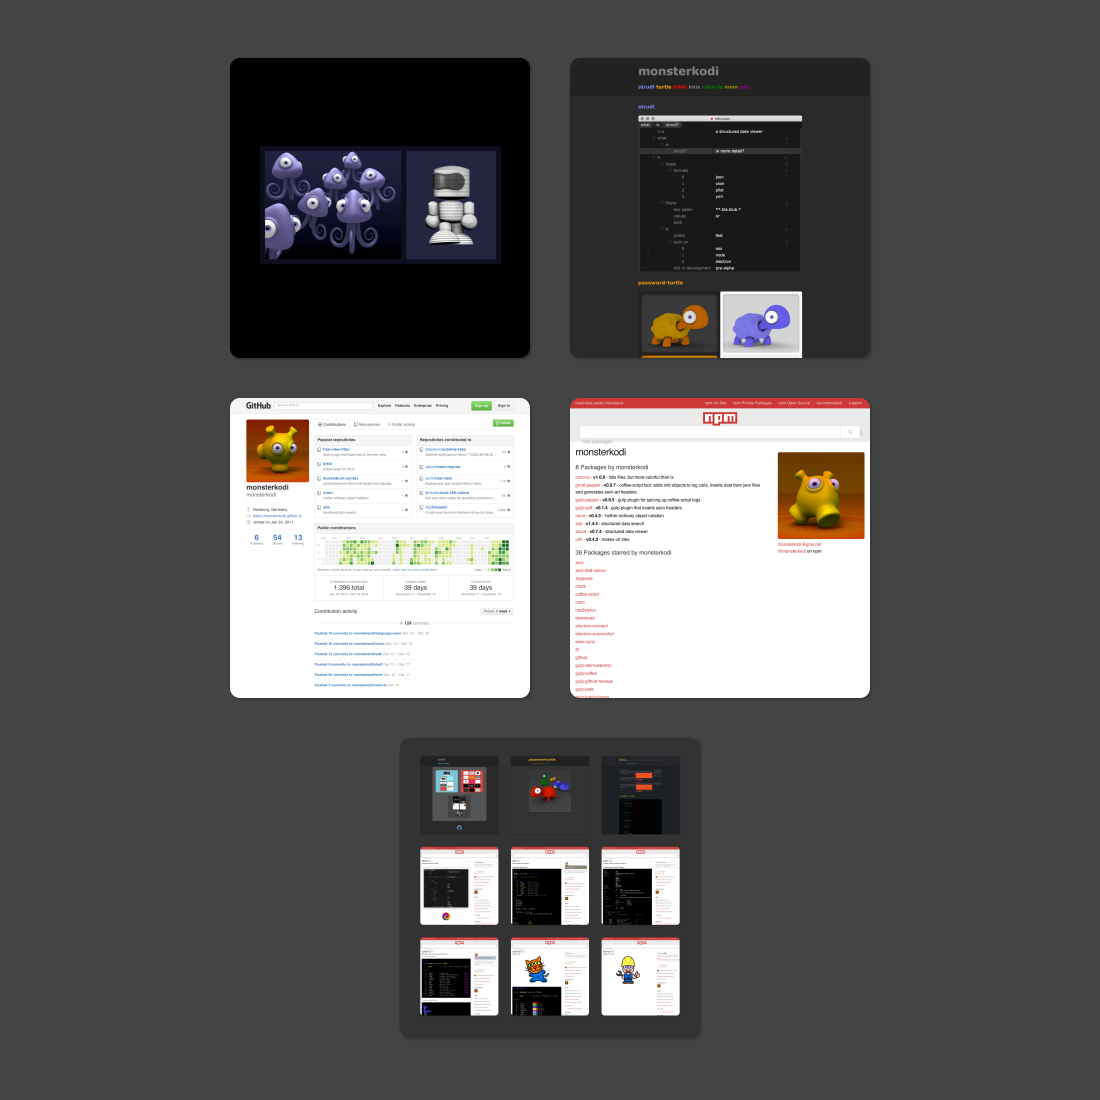
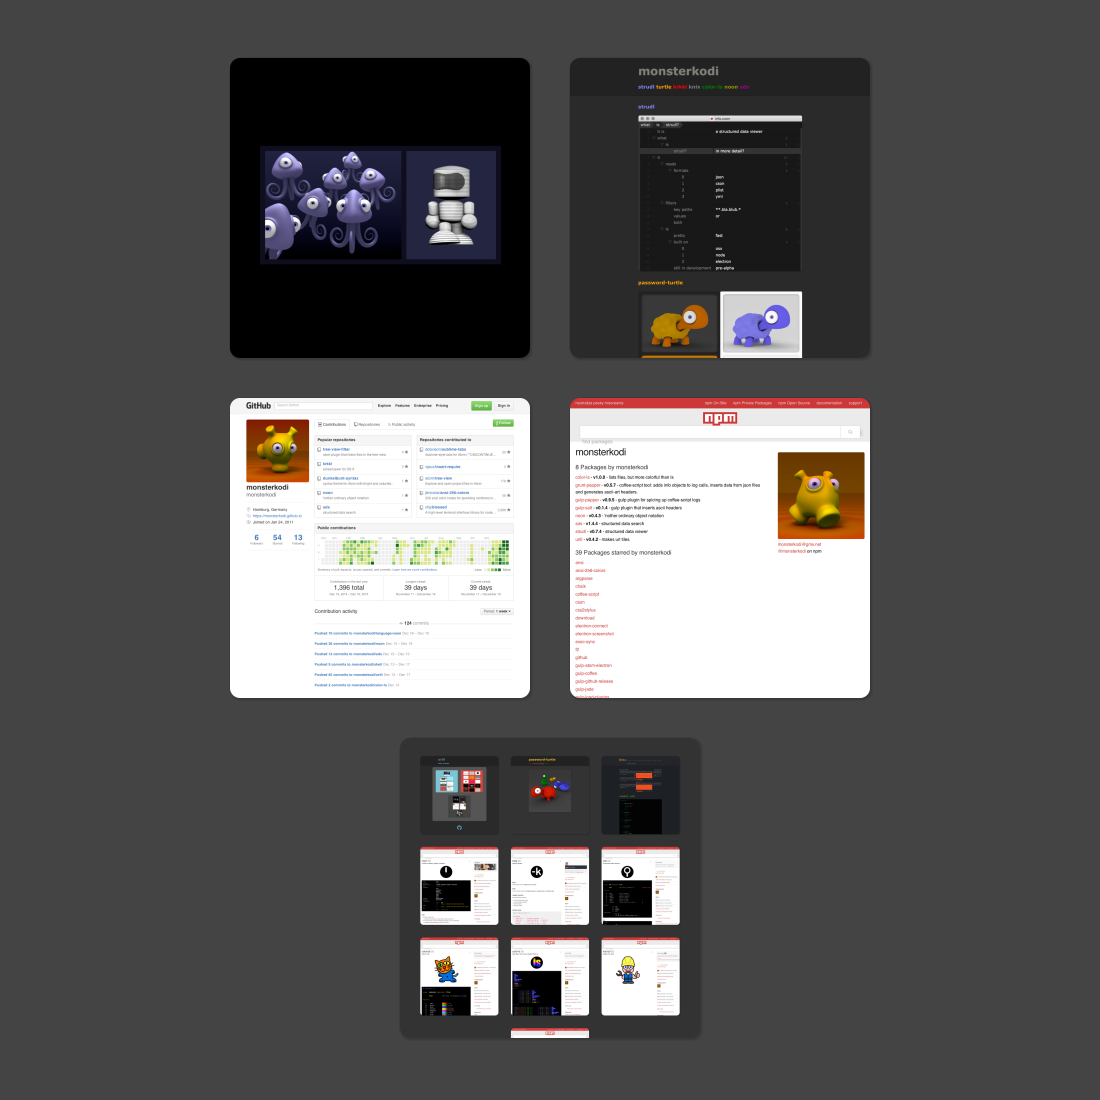
update

Changed region(s): [[0.3709, 0.7727, 0.5873, 0.9582]]

diff --git a/examples/projects.html b/examples/projects.html
@@ -207,13 +207,15 @@ img.site:hover {
       <div class="site name over">password-turtle</div><a href="http://monsterkodi.github.io/password-turtle" class="site link"><img src="img/monsterkodi.github.io.password-turtle.png" width="250" height="250" class="site image"/></a></span><span class="site tile">
       <div class="site name over">knix</div><a href="http://monsterkodi.github.io/knix" class="site link"><img src="img/monsterkodi.github.io.knix.png" width="250" height="250" class="site image"/></a></span>
     <div class="break"></div><span class="site tile">
-      <div class="site name over">strudl</div><a href="http://npmjs.com/package/strudl" class="site link"><img src="img/npmjs.com.package.strudl.png" width="250" height="250" class="site image"/></a></span><span class="site tile">
-      <div class="site name over">sds</div><a href="http://npmjs.com/package/sds" class="site link"><img src="img/npmjs.com.package.sds.png" width="250" height="250" class="site image"/></a></span><span class="site tile">
-      <div class="site name over">noon</div><a href="http://npmjs.com/package/noon" class="site link"><img src="img/npmjs.com.package.noon.png" width="250" height="250" class="site image"/></a></span>
+      <div class="site name over">noon</div><a href="http://npmjs.com/package/noon" class="site link"><img src="img/npmjs.com.package.noon.png" width="250" height="250" class="site image"/></a></span><span class="site tile">
+      <div class="site name over">karg</div><a href="http://npmjs.com/package/karg" class="site link"><img src="img/npmjs.com.package.karg.png" width="250" height="250" class="site image"/></a></span><span class="site tile">
+      <div class="site name over">sds</div><a href="http://npmjs.com/package/sds" class="site link"><img src="img/npmjs.com.package.sds.png" width="250" height="250" class="site image"/></a></span>
     <div class="break"></div><span class="site tile">
-      <div class="site name over">color-ls</div><a href="http://npmjs.com/package/color-ls" class="site link"><img src="img/npmjs.com.package.color-ls.png" width="250" height="250" class="site image"/></a></span><span class="site tile">
       <div class="site name over">colorcat</div><a href="http://npmjs.com/package/colorcat" class="site link"><img src="img/npmjs.com.package.colorcat.png" width="250" height="250" class="site image"/></a></span><span class="site tile">
+      <div class="site name over">color-ls</div><a href="http://npmjs.com/package/color-ls" class="site link"><img src="img/npmjs.com.package.color-ls.png" width="250" height="250" class="site image"/></a></span><span class="site tile">
       <div class="site name over">konrad</div><a href="http://npmjs.com/package/konrad" class="site link"><img src="img/npmjs.com.package.konrad.png" width="250" height="250" class="site image"/></a></span>
+    <div class="break"></div><span class="site tile">
+      <div class="site name over">strudl</div><a href="http://npmjs.com/package/strudl" class="site link"><img src="img/npmjs.com.package.strudl.png" width="250" height="250" class="site image"/></a></span>
     <div class="break"></div>
   </div>
 </body>
